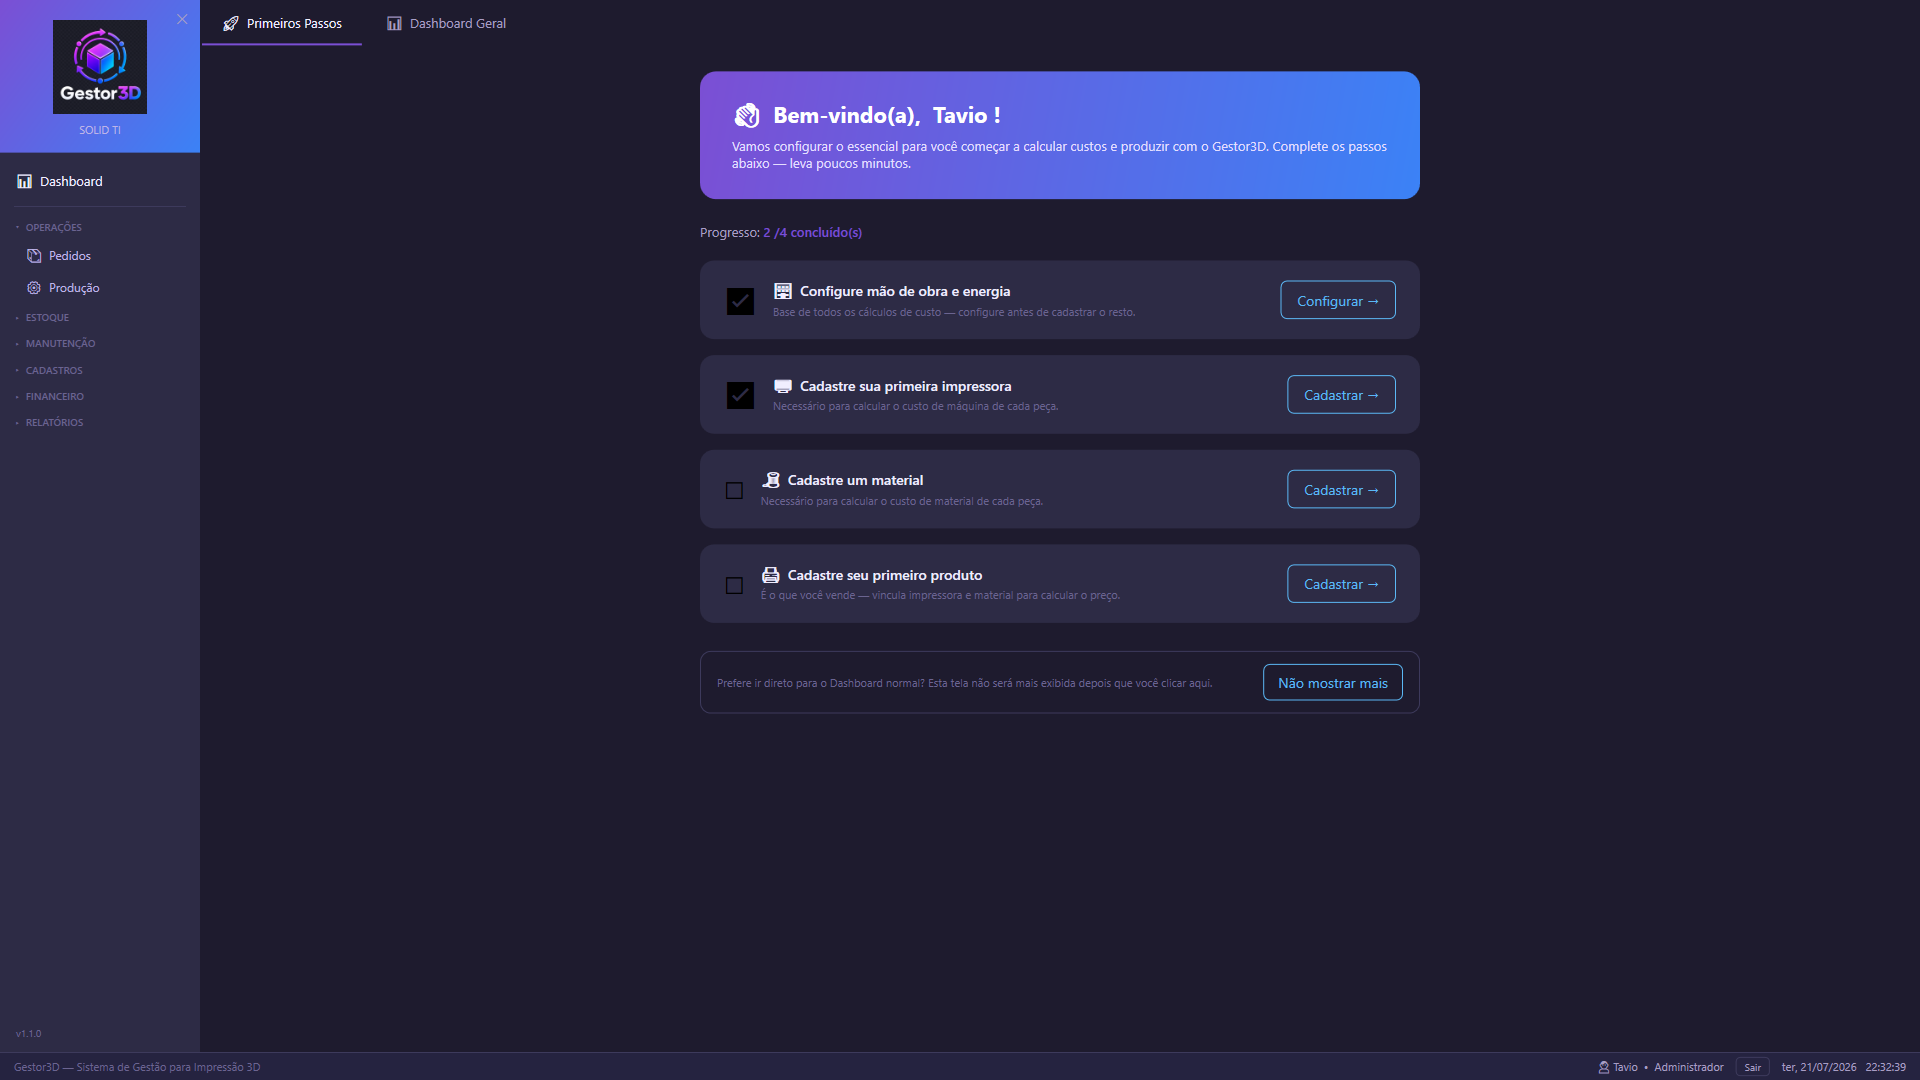
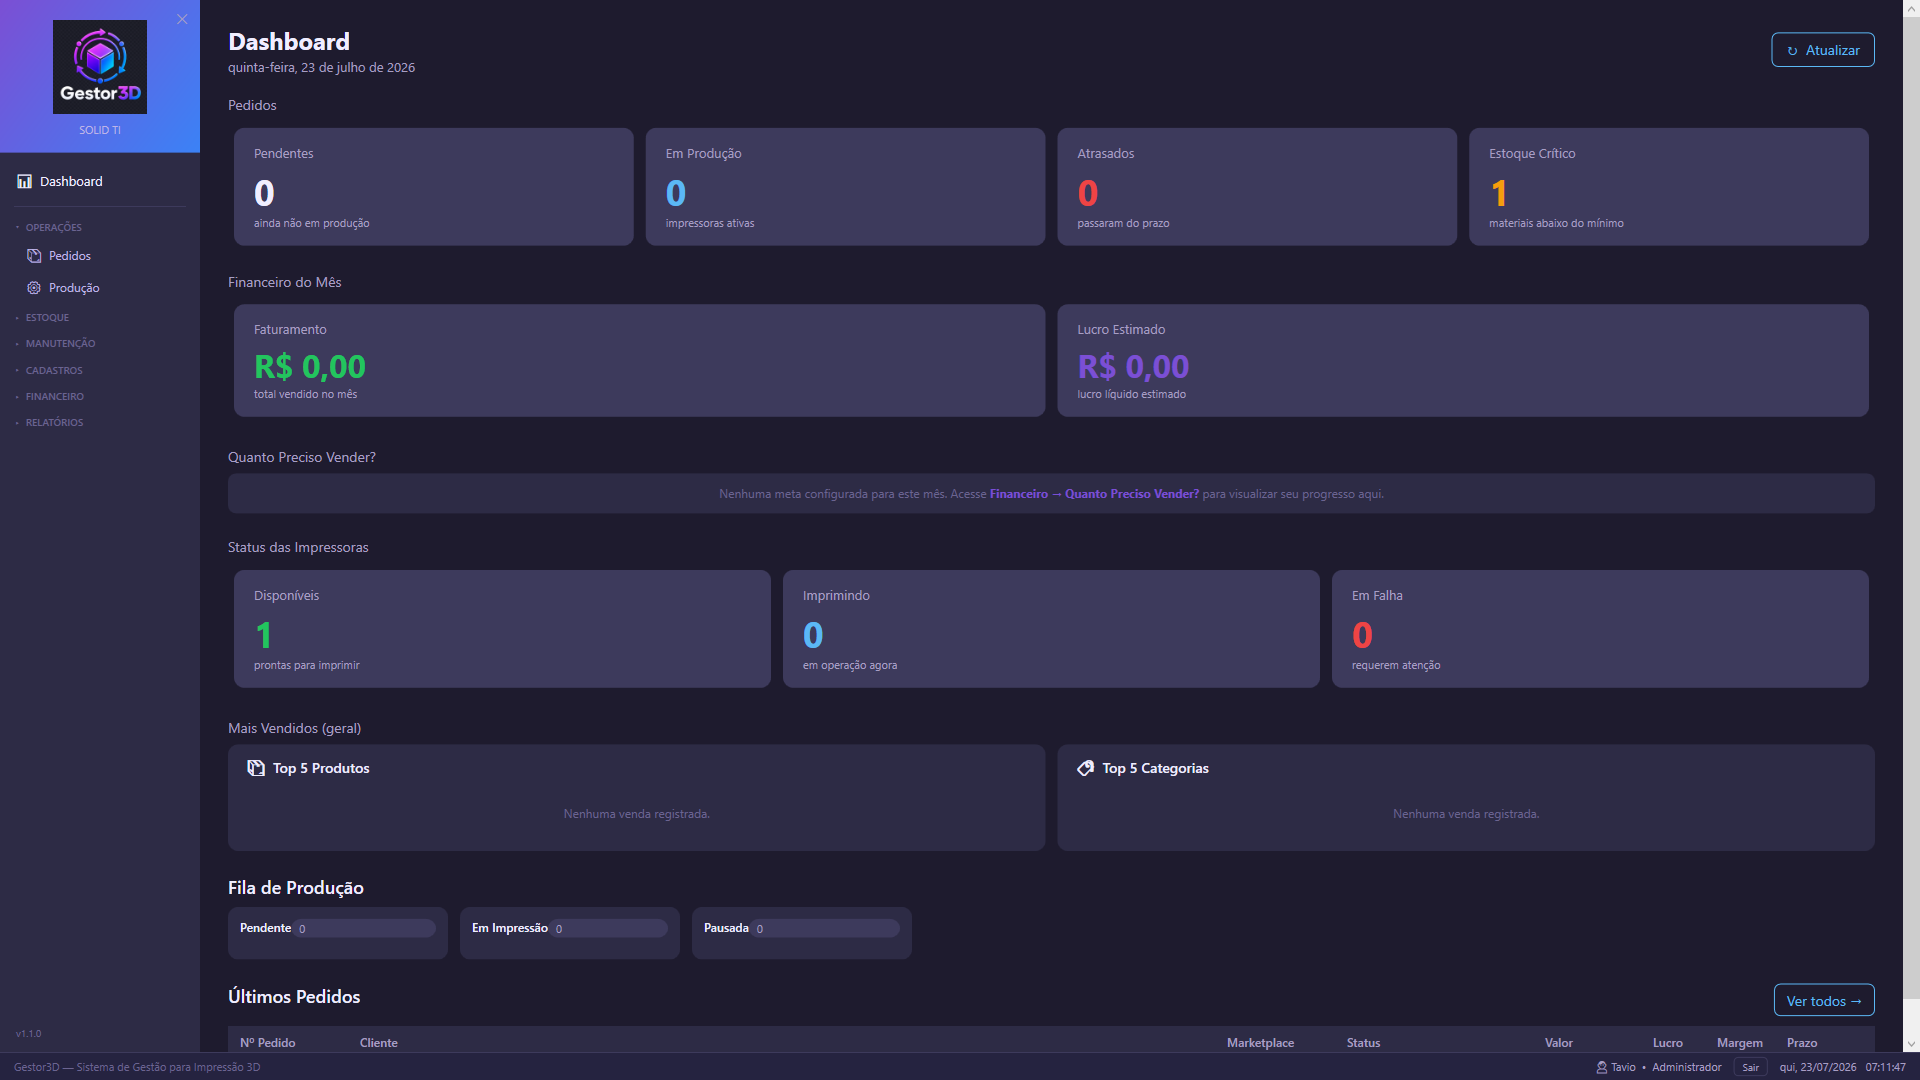
Atualiza dashboard da apresentacao

diff --git a/apresentacao/index.html b/apresentacao/index.html
@@ -520,7 +520,6 @@
     <a class="sumario-item" href="#rel-categoria"><span class="icone">🏷️</span><span class="num">16</span>Rel. Venda por Categoria</a>
     <a class="sumario-item" href="#rel-produto">  <span class="icone">📦</span><span class="num">17</span>Rel. Venda por Produto</a>
     <a class="sumario-item" href="#onboarding">   <span class="icone">🚀</span><span class="num">00</span>Primeiro Acesso</a>
-    <a class="sumario-item" href="#licenca">      <span class="icone">🔑</span><span class="num">00</span>Ativação de Licença</a>
     <a class="sumario-item" href="#dashboard">    <span class="icone">📊</span><span class="num">01</span>Dashboard</a>
     <a class="sumario-item" href="#pedidos">      <span class="icone">📦</span><span class="num">02</span>Pedidos</a>
     <a class="sumario-item" href="#producao">     <span class="icone">⚙️</span><span class="num">03</span>Fila de Produção</a>
@@ -585,35 +584,6 @@
   <div class="modulo-img">
     <img src="screenshots/00_onboarding.png" alt="Assistente de Primeiro Acesso" loading="lazy"
          onerror="this.parentElement.innerHTML='<div class=placeholder><div class=icon>🚀</div><span>Primeiro Acesso</span></div>'"/>
-  </div>
-</article>
-
-<!-- 00 Licença -->
-<article class="modulo anchor" id="licenca">
-  <div class="modulo-desc">
-    <div class="modulo-header">
-      <span class="modulo-num">🔑</span>
-      <span class="modulo-icone">🔑</span>
-      <div><div class="modulo-titulo">Ativação de Licença</div><div class="modulo-sub">Vínculo de instalação</div></div>
-    </div>
-    <div class="desc-bloco">
-      <p>Antes do assistente de primeiro acesso, o sistema solicita a chave de licença. Cada licença se vincula a uma única instalação (servidor), impedindo o uso simultâneo da mesma chave em duas máquinas diferentes.</p>
-      <h4>Como funciona</h4>
-      <div class="funcionalidades">
-        <div class="func-item">Instalação em modo <strong>Servidor</strong>: ativa e vincula a licença a esta máquina</div>
-        <div class="func-item">Instalação em modo <strong>Estação</strong>: conecta a um servidor já licenciado na rede, sem consumir ativações extras</div>
-        <div class="func-item">Tolerância offline de 3 dias — o sistema continua funcionando mesmo sem internet por um período curto</div>
-        <div class="func-item">Tela "Empresa" mostra o ID da instalação atual e permite desvincular antes de trocar de servidor</div>
-      </div>
-    </div>
-    <div class="tags">
-      <span class="tag roxo">1 servidor por licença</span>
-      <span class="tag azul">Estações ilimitadas</span>
-    </div>
-  </div>
-  <div class="modulo-img">
-    <img src="screenshots/00_licenca.png" alt="Ativação de Licença" loading="lazy"
-         onerror="this.parentElement.innerHTML='<div class=placeholder><div class=icon>🔑</div><span>Ativação de Licença</span></div>'"/>
   </div>
 </article>
 